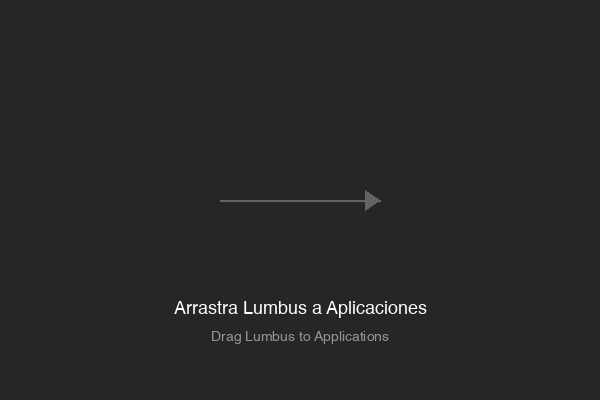
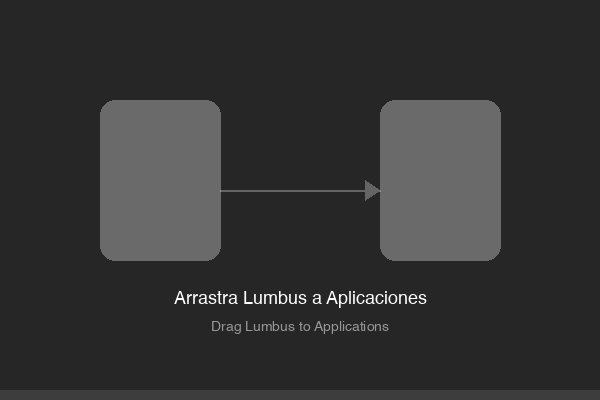
feat: v0.3.1 - remove ⌘+; hotkey, add GitHub link to About
- Remove ⌘+; (⌘+Ñ on ISO keyboards) hotkey for Settings
  Only ⌘+, opens Settings now to avoid conflict on Spanish keyboards
- Add GitHub repository link to About panel via Credits.rtf
- Fix About panel focus (now responds to Esc key)
- Update DMG build script with proper icons and background
- Update documentation (README.md, CLAUDE.md)
- Bump version to 0.3.1

Changed region(s): [[0.15, 0.24, 0.84, 0.66], [0.27, 0.72, 0.72, 0.87]]

diff --git a/src/main.rs b/src/main.rs
@@ -20,10 +20,10 @@ use lumbus::{clamp, color_to_hex, parse_hex_color, tr_key};
 use lumbus::events::{init_event_bus, publish, AppEvent};
 // Import model constants and preferences
 use lumbus::model::{
-    DEFAULT_DIAMETER, DEFAULT_BORDER_WIDTH, DEFAULT_COLOR, DEFAULT_FILL_TRANSPARENCY_PCT,
-    PREF_RADIUS, PREF_BORDER, PREF_STROKE_R, PREF_STROKE_G, PREF_STROKE_B, PREF_STROKE_A,
-    PREF_FILL_TRANSPARENCY, PREF_LANG,
-    prefs_get_double, prefs_set_double, prefs_get_int, prefs_set_int,
+    prefs_get_double, prefs_get_int, prefs_set_double, prefs_set_int, DEFAULT_BORDER_WIDTH,
+    DEFAULT_COLOR, DEFAULT_DIAMETER, DEFAULT_FILL_TRANSPARENCY_PCT, PREF_BORDER,
+    PREF_FILL_TRANSPARENCY, PREF_LANG, PREF_RADIUS, PREF_STROKE_A, PREF_STROKE_B, PREF_STROKE_G,
+    PREF_STROKE_R,
 };
 use std::ffi::CStr;
 
@@ -33,15 +33,14 @@ use crate::ffi::*;
 use crate::app::*;
 // Input handling (hotkeys, observers, monitors)
 use crate::input::{
-    install_hotkeys, reinstall_hotkeys,
-    install_termination_observer, start_hotkey_keepalive, install_wakeup_space_observers,
-    install_local_ctrl_a_monitor, install_mouse_monitors,
+    install_hotkeys, install_local_ctrl_a_monitor, install_mouse_monitors,
+    install_termination_observer, install_wakeup_space_observers, reinstall_hotkeys,
+    start_hotkey_keepalive,
 };
 // UI components
 use crate::ui::{
-    confirm_and_maybe_quit, open_settings_window, close_settings_window,
-    install_status_bar, update_status_bar_language,
-    DrawParams, ClickLetter, draw_circle, draw_letter,
+    close_settings_window, confirm_and_maybe_quit, draw_circle, draw_letter, install_status_bar,
+    open_settings_window, update_status_bar_language, ClickLetter, DrawParams,
 };
 // Event dispatcher
 use crate::handlers::dispatch_events;
@@ -194,7 +193,6 @@ unsafe fn register_custom_view_class_and_create_view(window: id, width: f64, hei
         decl.add_ivar::<*mut std::ffi::c_void>("_hkHandler");
         decl.add_ivar::<*mut std::ffi::c_void>("_hkToggle");
         decl.add_ivar::<*mut std::ffi::c_void>("_hkComma");
-        decl.add_ivar::<*mut std::ffi::c_void>("_hkSemi");
         decl.add_ivar::<*mut std::ffi::c_void>("_hkHelp");
         decl.add_ivar::<*mut std::ffi::c_void>("_hkQuit");
 
@@ -361,8 +359,10 @@ unsafe fn register_custom_view_class_and_create_view(window: id, width: f64, hei
                 }
 
                 prefs_set_double(PREF_RADIUS, v);
-                apply_to_all_views(|vv| { (*vv).set_ivar::<f64>("_radius", v) });
-                apply_to_all_views(|vv| { let _: () = msg_send![vv, setNeedsDisplay: YES]; });
+                apply_to_all_views(|vv| (*vv).set_ivar::<f64>("_radius", v));
+                apply_to_all_views(|vv| {
+                    let _: () = msg_send![vv, setNeedsDisplay: YES];
+                });
             }
         }
         // These are no-ops now (text fields became labels)
@@ -378,8 +378,10 @@ unsafe fn register_custom_view_class_and_create_view(window: id, width: f64, hei
                 }
 
                 prefs_set_double(PREF_BORDER, v);
-                apply_to_all_views(|vv| { (*vv).set_ivar::<f64>("_borderWidth", v) });
-                apply_to_all_views(|vv| { let _: () = msg_send![vv, setNeedsDisplay: YES]; });
+                apply_to_all_views(|vv| (*vv).set_ivar::<f64>("_borderWidth", v));
+                apply_to_all_views(|vv| {
+                    let _: () = msg_send![vv, setNeedsDisplay: YES];
+                });
             }
         }
         extern "C" fn set_border_from_field(_this: &mut Object, _cmd: Sel, _sender: id) {}
@@ -395,11 +397,14 @@ unsafe fn register_custom_view_class_and_create_view(window: id, width: f64, hei
                 }
 
                 prefs_set_double(PREF_FILL_TRANSPARENCY, v);
-                apply_to_all_views(|vv| { (*vv).set_ivar::<f64>("_fillTransparencyPct", v) });
-                apply_to_all_views(|vv| { let _: () = msg_send![vv, setNeedsDisplay: YES]; });
+                apply_to_all_views(|vv| (*vv).set_ivar::<f64>("_fillTransparencyPct", v));
+                apply_to_all_views(|vv| {
+                    let _: () = msg_send![vv, setNeedsDisplay: YES];
+                });
             }
         }
-        extern "C" fn set_fill_transparency_from_field(_this: &mut Object, _cmd: Sel, _sender: id) {}
+        extern "C" fn set_fill_transparency_from_field(_this: &mut Object, _cmd: Sel, _sender: id) {
+        }
         extern "C" fn color_changed(this: &mut Object, _cmd: Sel, sender: id) {
             unsafe {
                 let color: id = msg_send![sender, color];
@@ -425,7 +430,9 @@ unsafe fn register_custom_view_class_and_create_view(window: id, width: f64, hei
                     let s = color_to_hex(r, g, b, a);
                     let _: () = msg_send![hex_field, setStringValue: nsstring(&s)];
                 }
-                apply_to_all_views(|vv| { let _: () = msg_send![vv, setNeedsDisplay: YES]; });
+                apply_to_all_views(|vv| {
+                    let _: () = msg_send![vv, setNeedsDisplay: YES];
+                });
             }
         }
         extern "C" fn hex_changed(this: &mut Object, _cmd: Sel, sender: id) {
@@ -461,7 +468,9 @@ unsafe fn register_custom_view_class_and_create_view(window: id, width: f64, hei
                         }
                         let norm = color_to_hex(r, g, b, a);
                         let _: () = msg_send![sender, setStringValue: nsstring(&norm)];
-                        apply_to_all_views(|vv| { let _: () = msg_send![vv, setNeedsDisplay: YES]; });
+                        apply_to_all_views(|vv| {
+                            let _: () = msg_send![vv, setNeedsDisplay: YES];
+                        });
                     } else {
                         let r = *this.get_ivar::<f64>("_strokeR");
                         let g = *this.get_ivar::<f64>("_strokeG");
@@ -510,7 +519,7 @@ unsafe fn register_custom_view_class_and_create_view(window: id, width: f64, hei
                 let new_lang = if idx == 1 { 1 } else { 0 };
 
                 prefs_set_int(PREF_LANG, new_lang);
-                apply_to_all_views(|v| { (*v).set_ivar::<i32>("_lang", new_lang) });
+                apply_to_all_views(|v| (*v).set_ivar::<i32>("_lang", new_lang));
 
                 let es = new_lang == 1;
 
@@ -660,7 +669,10 @@ unsafe fn register_custom_view_class_and_create_view(window: id, width: f64, hei
             hotkey_keepalive as extern "C" fn(&mut Object, Sel),
         );
 
-        decl.add_method(sel!(setRadius:), set_radius as extern "C" fn(&mut Object, Sel, id));
+        decl.add_method(
+            sel!(setRadius:),
+            set_radius as extern "C" fn(&mut Object, Sel, id),
+        );
         decl.add_method(
             sel!(setRadiusFromField:),
             set_radius_from_field as extern "C" fn(&mut Object, Sel, id),
@@ -681,8 +693,14 @@ unsafe fn register_custom_view_class_and_create_view(window: id, width: f64, hei
             sel!(setFillTransparencyFromField:),
             set_fill_transparency_from_field as extern "C" fn(&mut Object, Sel, id),
         );
-        decl.add_method(sel!(colorChanged:), color_changed as extern "C" fn(&mut Object, Sel, id));
-        decl.add_method(sel!(hexChanged:), hex_changed as extern "C" fn(&mut Object, Sel, id));
+        decl.add_method(
+            sel!(colorChanged:),
+            color_changed as extern "C" fn(&mut Object, Sel, id),
+        );
+        decl.add_method(
+            sel!(hexChanged:),
+            hex_changed as extern "C" fn(&mut Object, Sel, id),
+        );
         decl.add_method(
             sel!(closeSettings:),
             close_settings as extern "C" fn(&mut Object, Sel, id),
@@ -706,12 +724,18 @@ unsafe fn register_custom_view_class_and_create_view(window: id, width: f64, hei
             status_bar_quit as extern "C" fn(&mut Object, Sel, id),
         );
 
-        decl.add_method(sel!(langChanged:), lang_changed as extern "C" fn(&mut Object, Sel, id));
+        decl.add_method(
+            sel!(langChanged:),
+            lang_changed as extern "C" fn(&mut Object, Sel, id),
+        );
         decl.add_method(
             sel!(controlTextDidChange:),
             control_text_did_change as extern "C" fn(&mut Object, Sel, id),
         );
-        decl.add_method(sel!(drawRect:), draw_rect as extern "C" fn(&Object, Sel, NSRect));
+        decl.add_method(
+            sel!(drawRect:),
+            draw_rect as extern "C" fn(&Object, Sel, NSRect),
+        );
 
         decl.register()
     };
@@ -742,7 +766,6 @@ unsafe fn register_custom_view_class_and_create_view(window: id, width: f64, hei
     (*view).set_ivar::<*mut std::ffi::c_void>("_hkHandler", std::ptr::null_mut());
     (*view).set_ivar::<*mut std::ffi::c_void>("_hkToggle", std::ptr::null_mut());
     (*view).set_ivar::<*mut std::ffi::c_void>("_hkComma", std::ptr::null_mut());
-    (*view).set_ivar::<*mut std::ffi::c_void>("_hkSemi", std::ptr::null_mut());
     (*view).set_ivar::<*mut std::ffi::c_void>("_hkHelp", std::ptr::null_mut());
     (*view).set_ivar::<*mut std::ffi::c_void>("_hkQuit", std::ptr::null_mut());
 
@@ -854,7 +877,10 @@ extern "C" fn hotkey_event_handler(
         if GetEventClass(event) == K_EVENT_CLASS_KEYBOARD
             && GetEventKind(event) == K_EVENT_HOTKEY_PRESSED
         {
-            let mut hot_id = EventHotKeyID { signature: 0, id: 0 };
+            let mut hot_id = EventHotKeyID {
+                signature: 0,
+                id: 0,
+            };
             let status = GetEventParameter(
                 event,
                 K_EVENT_PARAM_DIRECT_OBJECT,
@@ -870,7 +896,7 @@ extern "C" fn hotkey_event_handler(
                     HKID_TOGGLE => {
                         publish(AppEvent::ToggleOverlay);
                     }
-                    HKID_SETTINGS_COMMA | HKID_SETTINGS_SEMI => {
+                    HKID_SETTINGS_COMMA => {
                         publish(AppEvent::OpenSettings);
                     }
                     HKID_HELP => {
@@ -886,5 +912,3 @@ extern "C" fn hotkey_event_handler(
         NO_ERR
     }
 }
-
-

diff --git a/src/input/hotkeys.rs b/src/input/hotkeys.rs
@@ -9,14 +9,10 @@
 use cocoa::base::id;
 
 use crate::ffi::{
-    EventHotKeyID, EventHotKeyRef, EventHandlerRef, EventTypeSpec,
-    GetApplicationEventTarget, InstallEventHandler, RegisterEventHotKey,
-    RemoveEventHandler, UnregisterEventHotKey,
-    K_EVENT_CLASS_KEYBOARD, K_EVENT_HOTKEY_PRESSED,
-    KC_A, KC_COMMA, KC_SEMICOLON, KC_X, KC_H,
-    CMD_KEY, CONTROL_KEY, SHIFT_KEY,
-    HKID_TOGGLE, HKID_SETTINGS_COMMA, HKID_SETTINGS_SEMI, HKID_QUIT, HKID_HELP,
-    SIG_MHLT, NO_ERR,
+    EventHandlerRef, EventHotKeyID, EventHotKeyRef, EventTypeSpec, GetApplicationEventTarget,
+    InstallEventHandler, RegisterEventHotKey, RemoveEventHandler, UnregisterEventHotKey, CMD_KEY,
+    CONTROL_KEY, HKID_HELP, HKID_QUIT, HKID_SETTINGS_COMMA, HKID_TOGGLE, KC_A, KC_COMMA, KC_H,
+    KC_X, K_EVENT_CLASS_KEYBOARD, K_EVENT_HOTKEY_PRESSED, NO_ERR, SHIFT_KEY, SIG_MHLT,
 };
 
 /// Type alias for the hotkey event handler function signature.
@@ -31,7 +27,6 @@ pub type HotkeyHandler = extern "C" fn(
 /// Registers:
 /// - Ctrl+A: Toggle overlay
 /// - ⌘+,: Open Settings
-/// - ⌘+;: Open Settings (ISO keyboards)
 /// - ⌘+Shift+H: Show Help
 /// - Ctrl+Shift+X: Quit confirmation
 ///
@@ -86,9 +81,8 @@ pub unsafe fn install_hotkeys(view: id, handler: HotkeyHandler) {
 
     // Ctrl + A (toggle)
     register_hotkey!(KC_A, CONTROL_KEY, HKID_TOGGLE, "_hkToggle");
-    // ⌘ + ,  and ⌘ + ; → Settings
+    // ⌘ + , → Settings
     register_hotkey!(KC_COMMA, CMD_KEY, HKID_SETTINGS_COMMA, "_hkComma");
-    register_hotkey!(KC_SEMICOLON, CMD_KEY, HKID_SETTINGS_SEMI, "_hkSemi");
     // ⌘ + Shift + H → Help
     register_hotkey!(KC_H, CMD_KEY | SHIFT_KEY, HKID_HELP, "_hkHelp");
     // Ctrl + Shift + X → Quit confirmation
@@ -102,7 +96,6 @@ pub unsafe fn install_hotkeys(view: id, handler: HotkeyHandler) {
 pub unsafe fn uninstall_hotkeys(view: id) {
     let hk_toggle: *mut std::ffi::c_void = *(*view).get_ivar("_hkToggle");
     let hk_comma: *mut std::ffi::c_void = *(*view).get_ivar("_hkComma");
-    let hk_semi: *mut std::ffi::c_void = *(*view).get_ivar("_hkSemi");
     let hk_help: *mut std::ffi::c_void = *(*view).get_ivar("_hkHelp");
     let hk_quit: *mut std::ffi::c_void = *(*view).get_ivar("_hkQuit");
     let hk_handler: *mut std::ffi::c_void = *(*view).get_ivar("_hkHandler");
@@ -114,10 +107,6 @@ pub unsafe fn uninstall_hotkeys(view: id) {
     if !hk_comma.is_null() {
         let _ = UnregisterEventHotKey(hk_comma);
         (*view).set_ivar::<*mut std::ffi::c_void>("_hkComma", std::ptr::null_mut());
-    }
-    if !hk_semi.is_null() {
-        let _ = UnregisterEventHotKey(hk_semi);
-        (*view).set_ivar::<*mut std::ffi::c_void>("_hkSemi", std::ptr::null_mut());
     }
     if !hk_help.is_null() {
         let _ = UnregisterEventHotKey(hk_help);

diff --git a/src/ffi/carbon.rs b/src/ffi/carbon.rs
@@ -43,9 +43,8 @@ pub const CONTROL_KEY: u32 = 1 << 12;
 // ANSI keycodes
 pub const KC_A: u32 = 0;
 pub const KC_X: u32 = 7;
-pub const KC_SEMICOLON: u32 = 41;
 pub const KC_COMMA: u32 = 43;
-pub const KC_H: u32 = 4;        // H key for Help hotkey
+pub const KC_H: u32 = 4; // H key for Help hotkey
 
 // Hotkey signature: 'mhlt'
 pub const SIG_MHLT: u32 = 0x6D68_6C74;
@@ -53,9 +52,8 @@ pub const SIG_MHLT: u32 = 0x6D68_6C74;
 // Hotkey IDs
 pub const HKID_TOGGLE: u32 = 1;
 pub const HKID_SETTINGS_COMMA: u32 = 2;
-pub const HKID_SETTINGS_SEMI: u32 = 3;
 pub const HKID_QUIT: u32 = 4;
-pub const HKID_HELP: u32 = 5;         // Cmd+Shift+H
+pub const HKID_HELP: u32 = 5; // Cmd+Shift+H
 
 // === FFI Declarations ===
 

diff --git a/src/handlers/dispatcher.rs b/src/handlers/dispatcher.rs
@@ -14,7 +14,7 @@
 //! high-level events into concrete macOS actions.
 
 use cocoa::appkit::NSApp;
-use cocoa::base::{id, nil};
+use cocoa::base::{id, nil, YES};
 use objc::{msg_send, sel, sel_impl};
 
 use crate::ui::show_help_overlay;
@@ -89,8 +89,9 @@ unsafe fn dispatch_single_event(
         }
 
         AppEvent::ShowAbout => {
-            // Show the standard macOS About panel
+            // Activate app and show the standard macOS About panel
             let app: id = NSApp();
+            let _: () = msg_send![app, activateIgnoringOtherApps: YES];
             let _: () = msg_send![app, orderFrontStandardAboutPanel: nil];
         }
 

diff --git a/README.md b/README.md
@@ -28,7 +28,6 @@ Highlight the mouse pointer across **all** macOS displays with a configurable ci
 - **Global hotkeys (no beep)**
     - `Ctrl` + `A` → **Toggle overlay visibility**
     - `⌘` + `,` → **Open Settings**
-    - `⌘` + `;` → **Open Settings** (alternate)
     - `⌘` + `Shift` + `H` → **Show Help** (keyboard shortcuts)
     - `Ctrl` + `Shift` + `X` → **Quit** (with confirmation)
 - **Help overlay** — Press `⌘+Shift+H` to show all keyboard shortcuts in a centered overlay
@@ -110,7 +109,7 @@ make install
 
 2. Toggle overlay with **Ctrl + A** (works while the app is running; it doesn’t need to be frontmost).
 
-3. Open **Settings** with **⌘ + ,** or **⌘ + ;**.
+3. Open **Settings** with **⌘ + ,**.
 
 4. Adjust **radius**, **border**, **colour** (picker or Hex), and **fill transparency**.
 
@@ -156,7 +155,6 @@ make install
 |----------|--------|
 | `Ctrl` + `A` | Toggle overlay |
 | `⌘` + `,` | Open Settings |
-| `⌘` + `;` | Open Settings (alternate) |
 | `⌘` + `Shift` + `H` | Show Help |
 | `Ctrl` + `Shift` + `X` | Quit (with confirmation) |
 
@@ -180,7 +178,7 @@ Implemented with **Carbon HotKeys** (no beep) and a local key monitor for extra 
 
 ## 🧪 Troubleshooting
 
-- **Shortcuts beep or don’t trigger:** Use **Ctrl+A**, **⌘+,**, **⌘+;**, or **Ctrl+Shift+X**. Other apps may intercept overlapping shortcuts—adjust their settings if necessary.
+- **Shortcuts beep or don’t trigger:** Use **Ctrl+A**, **⌘+,**, or **Ctrl+Shift+X**. Other apps may intercept overlapping shortcuts—adjust their settings if necessary.
 - **Overlay not following the cursor:** Ensure **Input Monitoring** and/or **Accessibility** are enabled for your binary (or for your IDE if launching from it).
 - **Hex field layout:** It sits to the right of the “Hex” label; tweak the constants if you change window width.
 
@@ -253,4 +251,4 @@ Apache License 2.0. See [LICENSE](LICENSE) file.
 ## 🙌 Acknowledgments
 
 Built with `cocoa`, `objc`, `block`, and a sprinkle of Core* frameworks via FFI.
-Tested on macOS with **ANSI** and **ISO** keyboards (`⌘+,` and `⌘+;` cover both). ✔
+Tested on macOS. Works with ANSI and ISO keyboards. ✔

diff --git a/CLAUDE.md b/CLAUDE.md
@@ -77,7 +77,8 @@ cargo test -- --nocapture
 
 ### Hotkeys (Carbon Event Manager)
 - **Ctrl+A**: Toggle overlay visibility
-- **⌘+,** / **⌘+;**: Open Settings (ANSI/ISO keyboard support)
+- **⌘+,**: Open Settings
+- **⌘+Shift+H**: Show Help
 - **Ctrl+Shift+X**: Quit with confirmation
 
 Hotkeys use Carbon API (not NSEvent global monitors) to avoid triggering system beep. Handler installed on `GetApplicationEventTarget()`.
@@ -114,7 +115,6 @@ Grant these to the app (or to RustRover/IDE if running from development environm
 ## Known Constraints
 
 - macOS 10.13+ required (uses modern Cocoa/CoreGraphics APIs)
-- ANSI/ISO keyboard support via dual hotkeys (⌘+, and ⌘+;)
 - No CLI arguments; all configuration via GUI
 - No external config files; all state in NSUserDefaults
 - No support for Windows/Linux (pure macOS Cocoa)
